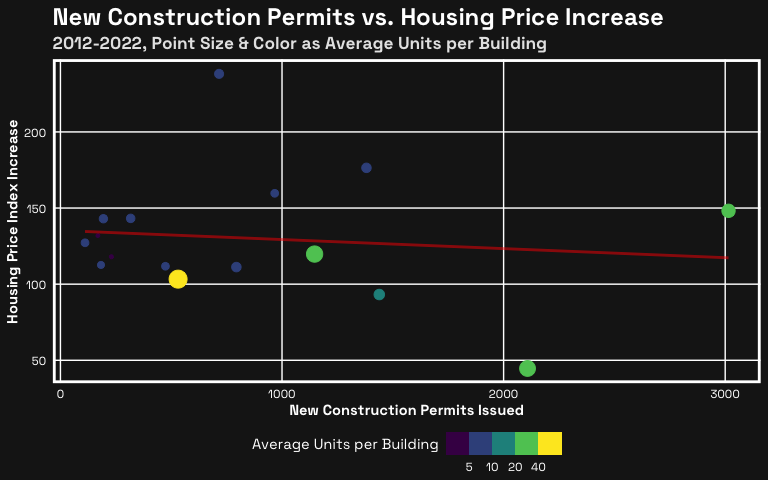
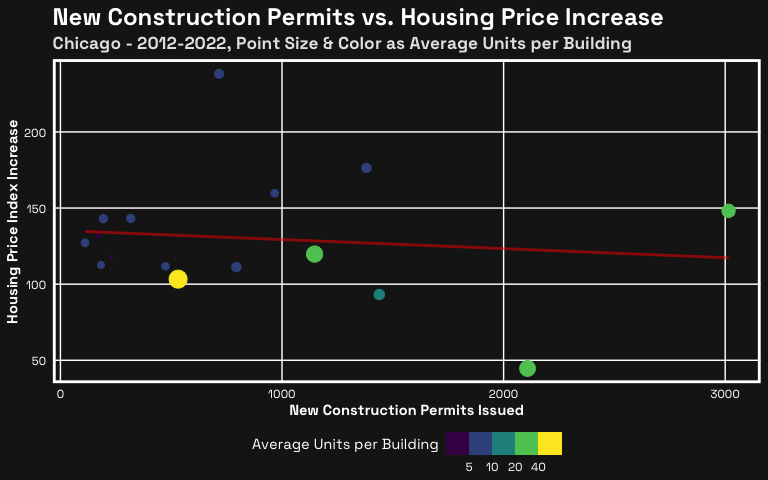
edited titles

Changed region(s): [[0.0625, 0.0625, 0.8438, 0.125]]

diff --git a/price-construction-units_scatter/price-construction-units_scatter.md b/price-construction-units_scatter/price-construction-units_scatter.md
@@ -275,12 +275,7 @@ chicago_pumas <- read_sf(here("SHP", "SHP_illinois_PUMAs", "tl_2020_17_puma10.sh
   mutate(NAMELSAD10 = str_replace_all(.$NAMELSAD10, "East & West Garfield Park", "East Garfield Park, West Garfield Park")) %>% 
   mutate(NAMELSAD10 = str_replace_all(.$NAMELSAD10, " & ", ", ")) %>% 
   mutate(STATEFP10 = seq(1:17))
-```
 
-    Warning: st_crs<- : replacing crs does not reproject data; use st_transform for
-    that
-
-``` r
 puma_id <- chicago_pumas %>% 
   tibble(.) %>% 
   select(id = STATEFP10, name = NAMELSAD10)
@@ -289,9 +284,9 @@ tracts_within <- st_within(tract_housing_centers, chicago_pumas, sparse = FALSE)
   data.frame(.)
 ```
 
-The following is probably the most insane code chunk in this file. I
-binded the tract center and tract within data together, then melted it
-and selected the rows only when the tract is within the PUMA. Next I
+The following is probably the most insane code chunk in this file.  
+I bound the tract center and tract within data together, then melted it
+and selected the rows only when the tract is within the PUMA. Then I
 took the mean of the average units per PUMA and added the PUMA names to
 their IDs (which is why I kept just the names and IDs).
 
@@ -353,7 +348,7 @@ ggplot(avg_units_scatter_2012,
   ) +
   labs(
     title = "New Construction Permits vs. Housing Price Increase",
-    subtitle = "2012-2022, Point Size & Color as Average Units per Building",
+    subtitle = "Chicago - 2012-2022, Point Size & Color as Average Units per Building",
     color = "Average Units per Building",
     x = "New Construction Permits Issued",
     y = "Housing Price Index Increase"
